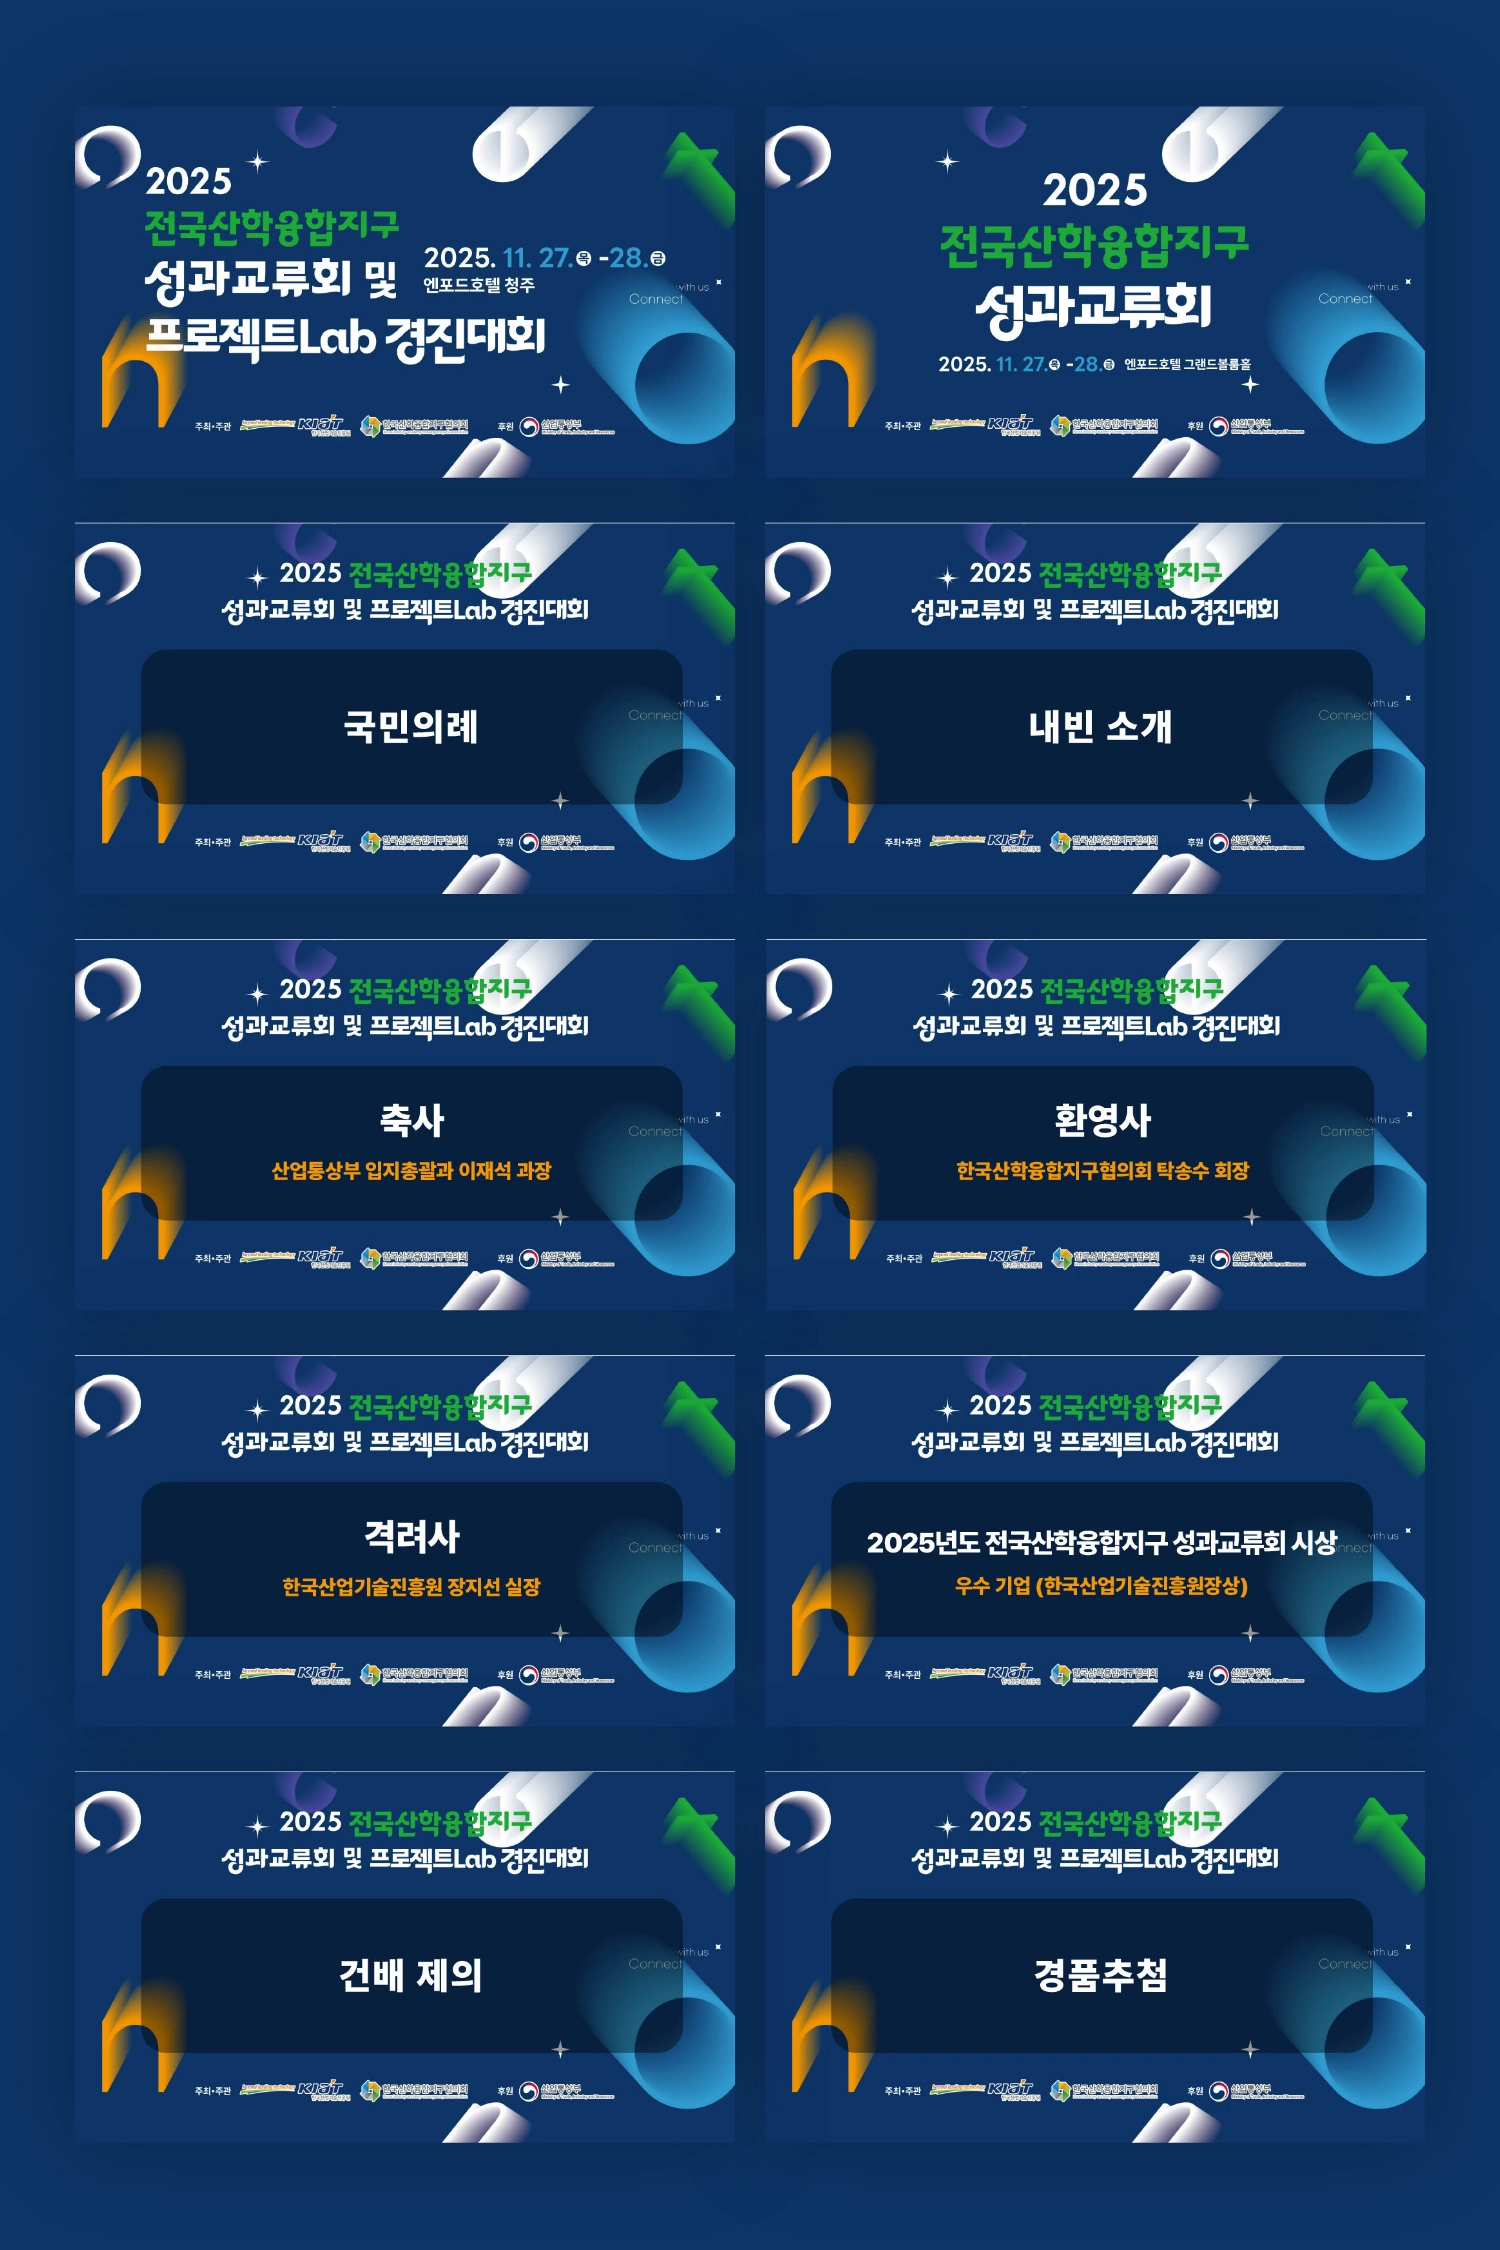
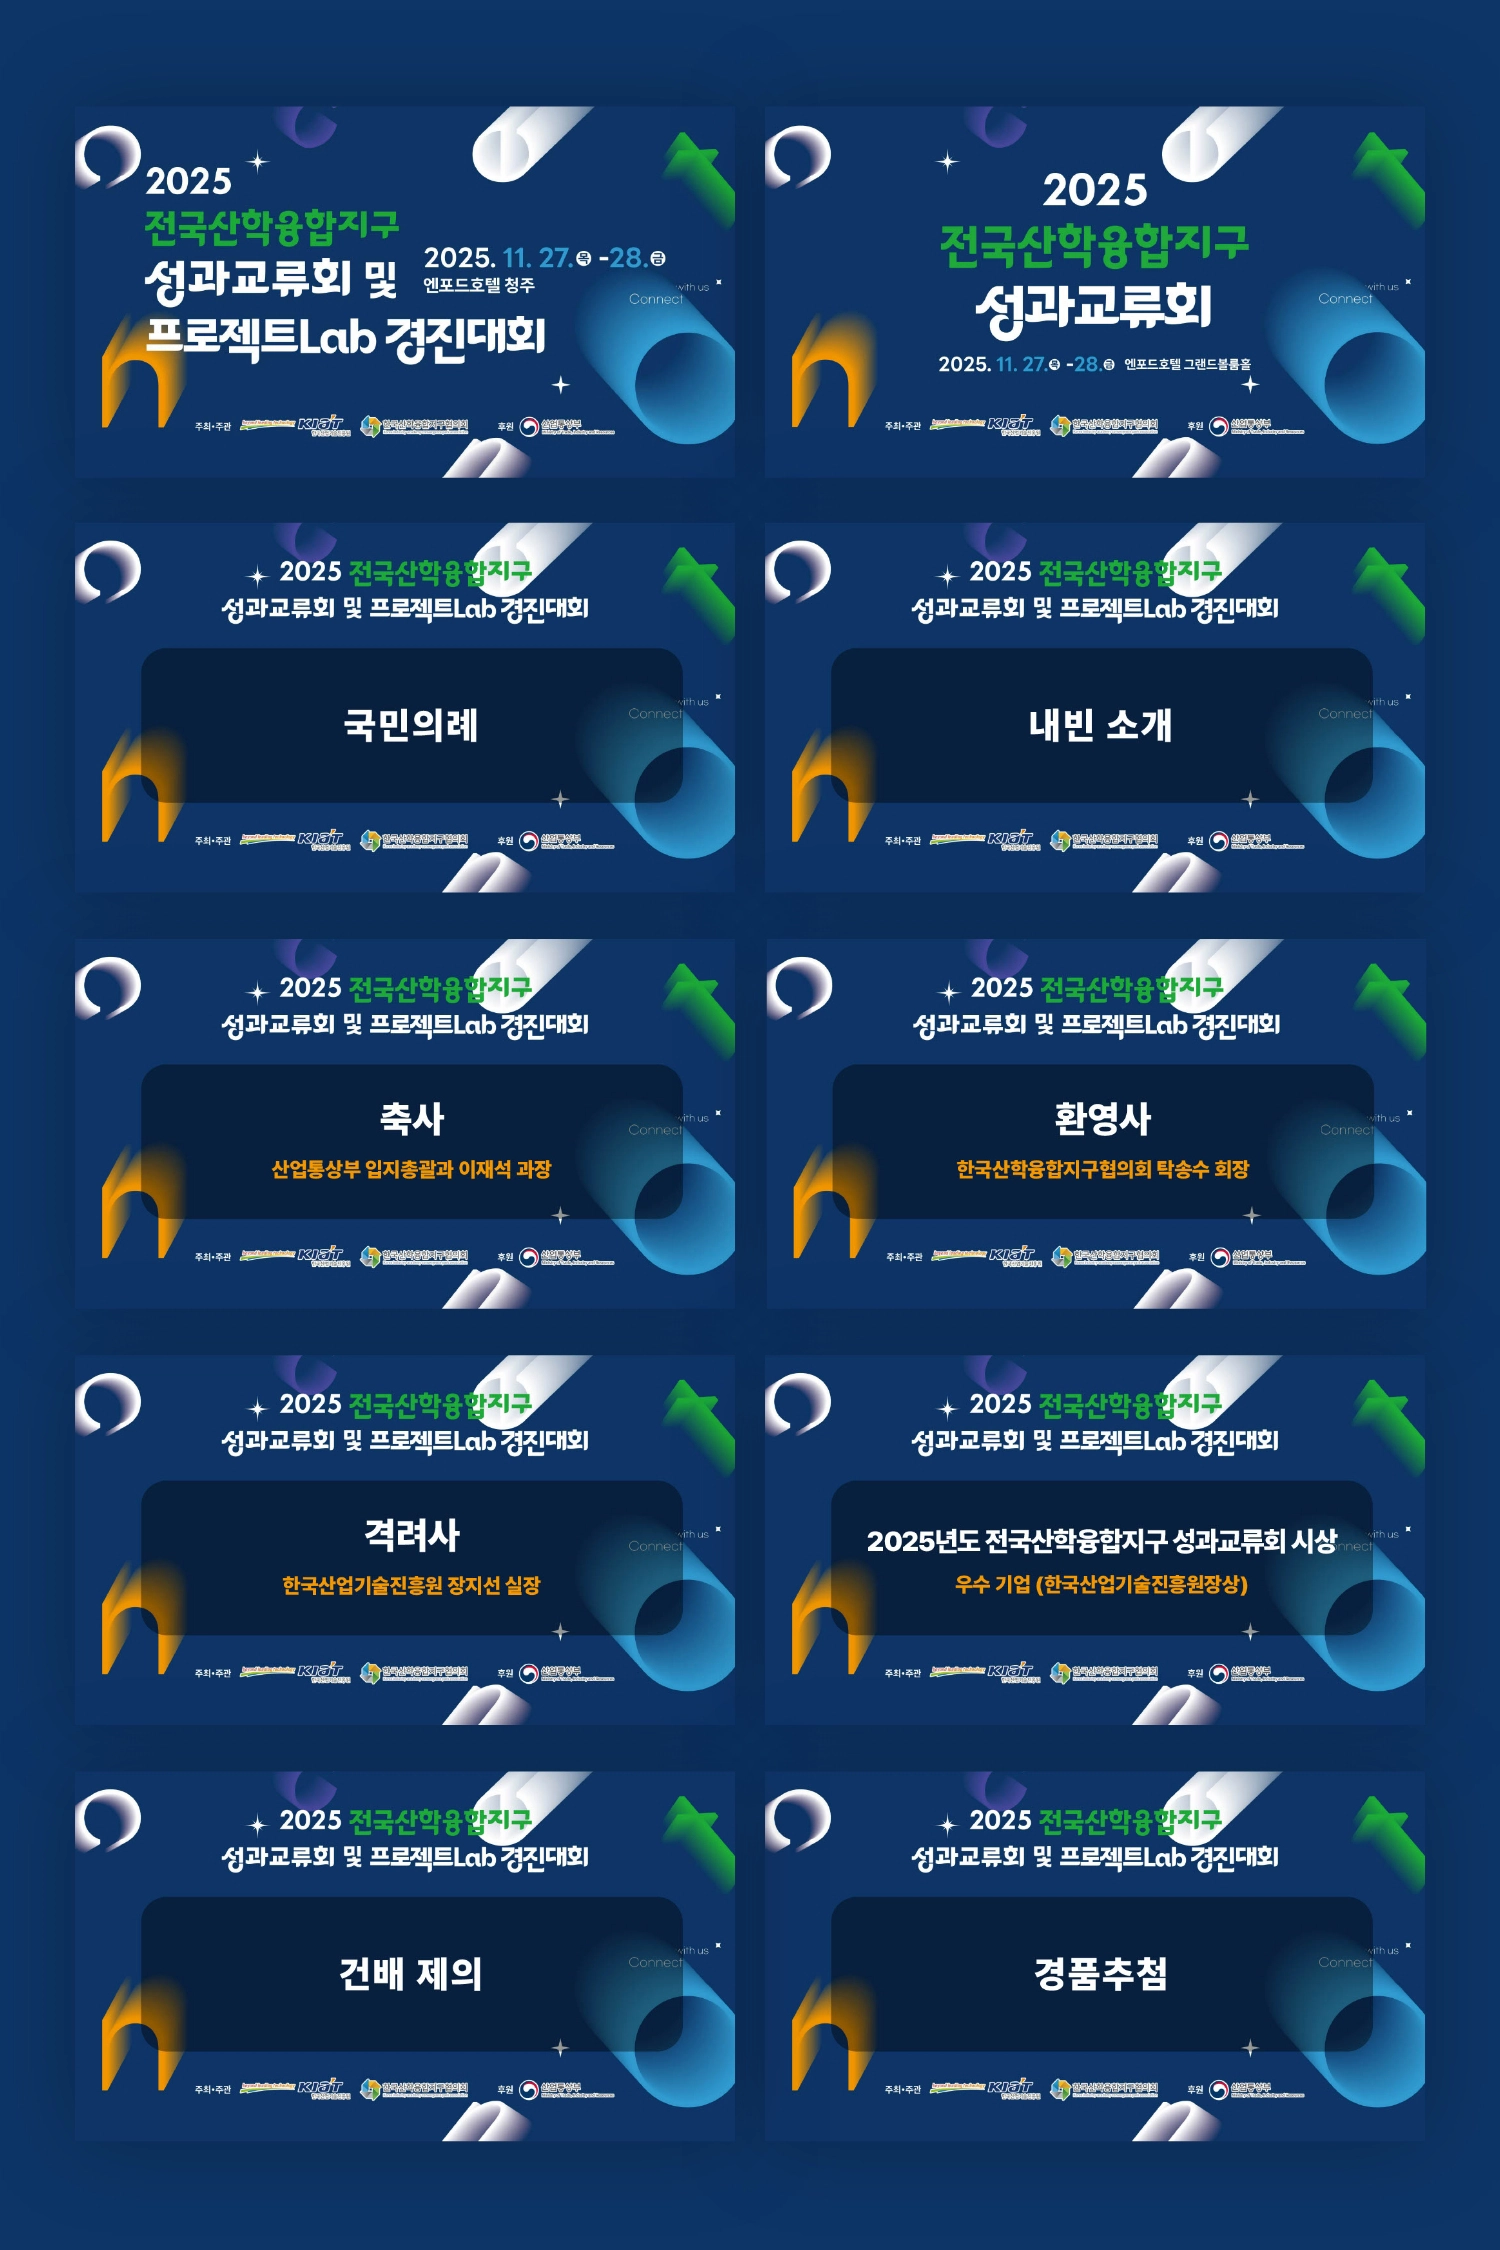
포트폴리오 업로드

diff --git a/index.html b/index.html
@@ -308,7 +308,7 @@
                 </li>
 
                 <li>
-                    <a href="/pdf/pdf_event.pdf" onclick="alert('현재 준비중입니다.'); return false;">
+                    <a href="/pdf/pdf_event.pdf" target="_blank" rel="noopener noreferrer">
                         <div class="desc">
                             <p>Event Design</p>
                             <span>행사 디자인 작업물</span>
@@ -330,7 +330,6 @@
                     <button onclick="filterCards('web', this)">웹사이트</button>
                     <button onclick="filterCards('landing', this)">랜딩페이지</button>
                     <button onclick="filterCards('content', this)">컨텐츠 디자인</button>
-                    <button onclick="filterCards('photo', this)">사진촬영</button>
                 </div>
             </div>
 
